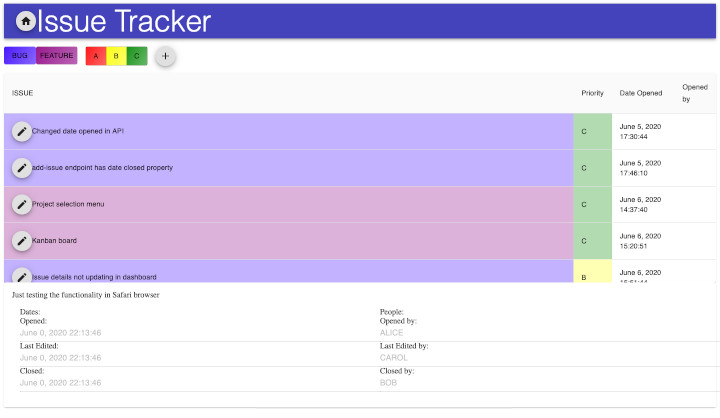
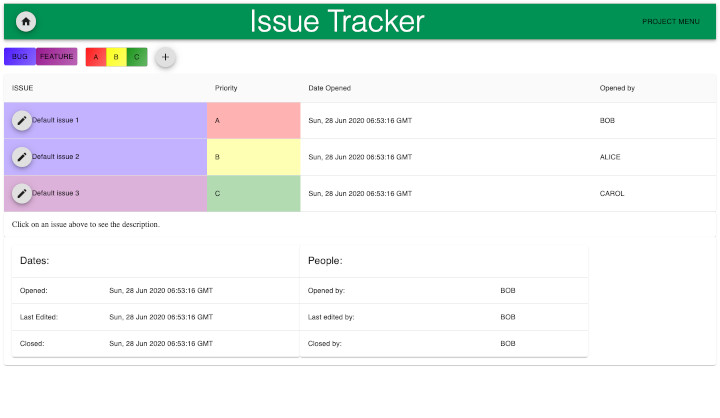
Got the project menu selection dialog to close after selecting a project. Changed the stylings of the Details component a little.

diff --git a/src/components/projectSelection.jsx b/src/components/projectSelection.jsx
@@ -4,53 +4,33 @@ import Button from "@material-ui/core/Button";
 import Dialog from "@material-ui/core/Dialog";
 import DialogTitle from "@material-ui/core/DialogTitle";
 import DialogContent from "@material-ui/core/DialogContent";
-import FormControl from '@material-ui/core/FormControl';
-import InputLabel from '@material-ui/core/InputLabel';
 import MenuItem from '@material-ui/core/MenuItem';
-import Select from '@material-ui/core/Select';
 import { PROJECTS } from "../utilities/constants";
 import { makeStyles } from "@material-ui/core/styles";
 import { connect } from "react-redux";
 import { chooseProject } from "../redux/actions";
 
 const customStyles = makeStyles({
-    menuName: {
-        width: "100mm",
-    },
-    item: {
-
-    },
+    menuName: { width: "100mm" },
+    item: {},
 });
 
 const MenuItems = (props) => {
-    const { handleClick } = props;
+    const { handleClick, closeDialog } = props;
     return PROJECTS.map((item, index) => (
-        <MenuItem onClick={() => handleClick(item)} key={index}>
+        <MenuItem onClick={() => {
+            handleClick(item);
+            closeDialog();
+        }
+        } key={index}>
             {item}
         </MenuItem >
     ));
 };
 
-// original
-const ProjectSelection2 = () => {
-    const styles = customStyles();
-    return (
-        <Box>
-            <FormControl className={styles.menuName} >
-                <InputLabel>Project</InputLabel>
-                <Select>
-                    <MenuItems></MenuItems>
-                </Select>
-            </FormControl>
-        </Box>
-    )
-};
-
 const ProjectSelection = ({ projectClick }) => {
     const [open, showDialog] = useState(false);
     // const styles = customStyles();
-
-
     const openDialog = () => {
         showDialog(true);
     }
@@ -65,7 +45,7 @@ const ProjectSelection = ({ projectClick }) => {
             <Dialog open={open}>
                 <DialogTitle>Choose a project</DialogTitle>
                 <DialogContent>
-                    <MenuItems handleClick={projectClick}></MenuItems>
+                    <MenuItems handleClick={projectClick} closeDialog={closeDialog}></MenuItems>
                 </DialogContent>
                 <Button onClick={closeDialog} color="secondary">Cancel</Button>
 
@@ -79,10 +59,9 @@ const mapStateToProps = (state) => ({
 });
 
 const mapDispatchToProps = (dispatch) => ({
-    // projectClick: (project) => dispatch(chooseProject(project)),
-    projectClick: (project) => console.log("PROJECT;", project),
-    // projectClick: () => console.log("PROJECT Clicked"),
-
+    projectClick: (project) => {
+        dispatch(chooseProject(project));
+    },
 });
 
 // export default ProjectSelection;

diff --git a/src/components/issueDates.jsx b/src/components/issueDates.jsx
@@ -9,10 +9,11 @@ import TableCell from "@material-ui/core/TableCell";
 import TableContainer from "@material-ui/core/TableContainer";
 import TableHead from "@material-ui/core/TableHead";
 import TableRow from "@material-ui/core/TableRow";
+import Typography from "@material-ui/core/Typography";
 
 
 const customStyles = makeStyles({
-  table: { width: "100%", minWidth: "40vw"},
+    table: { width: "100%", minWidth: "40vw" },
 });
 
 
@@ -25,8 +26,10 @@ const IssueDates = ({ issue }) => {
 
                     <TableHead>
                         <TableRow>
-                            <TableCell>
-                                Dates:
+                            <TableCell colSpan={2}>
+                                <Typography variant="h6">
+                                    Dates:
+                                </Typography>
                             </TableCell>
                         </TableRow>
                     </TableHead>

diff --git a/src/components/issuePeople.jsx b/src/components/issuePeople.jsx
@@ -8,6 +8,7 @@ import TableCell from "@material-ui/core/TableCell";
 import TableContainer from "@material-ui/core/TableContainer";
 import TableHead from "@material-ui/core/TableHead";
 import TableRow from "@material-ui/core/TableRow";
+import Typography from "@material-ui/core/Typography";
 
 
 const customStyles = makeStyles({
@@ -30,8 +31,11 @@ const IssuePeople = (props) => {
 
           <TableHead>
             <TableRow>
-              <TableCell>
-                People:
+              <TableCell colSpan={2}>
+
+                <Typography variant="h6">
+                  People:
+                </Typography>
               </TableCell>
             </TableRow>
           </TableHead>

diff --git a/src/components/dashboard.jsx b/src/components/dashboard.jsx
@@ -12,7 +12,6 @@ const customStyles = makeStyles({
   projectDashboard: {},
   description: {
     display: "flex",
-    flexDirection: "column",
     padding: "1rem",
   },
   details: {
@@ -29,7 +28,8 @@ const Dashboard = ({ issue }) => {
       <Box className={styles.projectDashboard}>
         <IssueTable></IssueTable>
       </Box>
-      <Paper component="div">{issue.description}
+      <Paper component="div" className={styles.description}>
+        {issue.description}
       </Paper>
       <Paper component="div" className={styles.details}>
         <IssueDates></IssueDates>

diff --git a/progress.md b/progress.md
@@ -8,6 +8,7 @@ Times are in minutes
 60 - Added some styling changes to the details component to fix the wierd alignments. Added some different default states to help with different functionality when developing on the localhost. Added a toggle ability to the priority buttons and it now updates in the Redux store. I need to work on the sort ability next for the priority buttons in the issue table component.  
 30 - Added filter ability to the issue table.  
 60 - After reading through the docs and trying to decide on the best way to present the projects for selection, I decided on how I want ot present the project menu and updated its stylings accordingly. Now it's functional, but I need to add an endpoint in the server with a database query to get the issues for a selected project.
+20 - Changed the stylings of the Details component a little, and got the project dialog window to close after selecting a project.
 
 
 ### 27th
